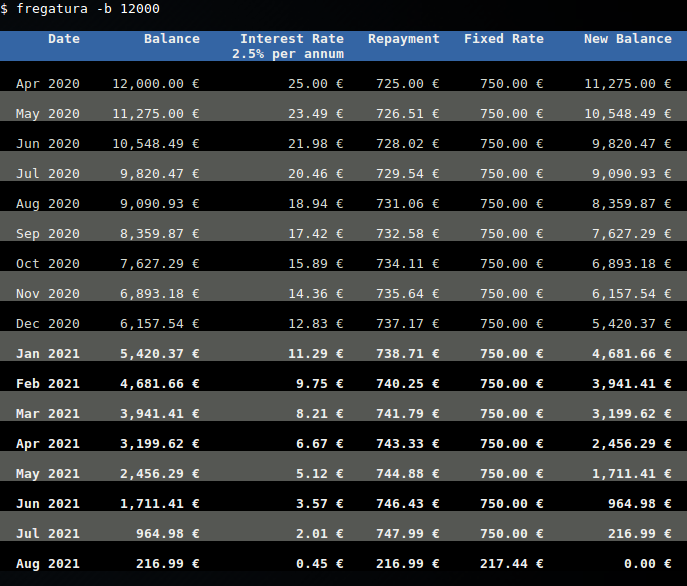
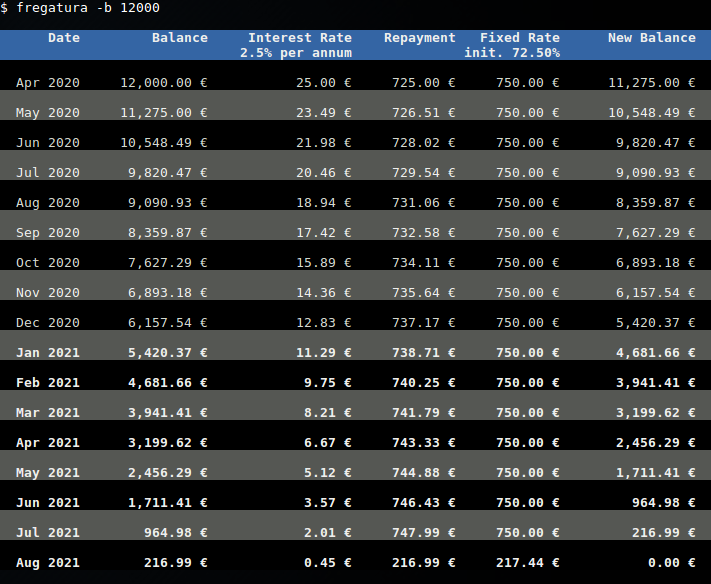
Formatting

diff --git a/src/cli.js b/src/cli.js
@@ -34,7 +34,7 @@ export function cli(argv) {
 	
 	(argv['v'] || argv['version'] || argv['h'] || argv['help']) && process.exit()
 
-	let balance       = argv['b'] || argv['balance'] || 185000;
+	let balance = argv['b'] || argv['balance'] || 185000;
 	let fixedInterest = argv['i'] || argv['interest'] || 2.5;
 	let repaymentRate = argv['p'] || argv['repaymentRate'];
 	let fixedRate;
@@ -44,7 +44,7 @@ export function cli(argv) {
 		fixedRate = argv['r'] || argv['rate'] || 750;
 		repaymentRate = (fixedRate * 12 * 100 / balance) - fixedInterest
 	}
-	let currency      = argv['c'] || argv['currency'] ||'€';
+	let currency = argv['c'] || argv['currency'] ||'€';
 	
 	let from = argv['f'] || argv['from']
 		? moment(argv['f'] || argv['from'])
@@ -61,19 +61,19 @@ export function cli(argv) {
 	console.log(chalk['bgBlue'].white.bold([
 		' ',
 		padStart('Date', 8),
-		padStart('Balance', 14),
+		padStart('Balance', 15),
 		padStart('Interest Rate', 17),
-		padStart('Repayment', 11),
+		padStart('Repayment', 12),
 		padStart('Fixed Rate', 12),
-		padStart('New Balance', 15),
+		padStart('New Balance', 16),
 		' '
 	].join(' ')));
 	console.log(chalk['bgBlue'].white.bold([
-		padStart('', 25),
+		padStart('', 26),
 		padStart(fixedInterest + '% per annum', 17),
-		padStart('', 11),
+		padStart('', 12),
 		padStart('init. ' + repaymentRate.toFixed(2) + '%', 12),
-		padStart('', 17),
+		padStart('', 18),
 	].join(' ')));
 	
 	/**
@@ -110,15 +110,15 @@ export function cli(argv) {
 				newBalance = parseFloat(balance.toFixed(2) - repayment).toFixed(2);
 			}
 	
-			console.log(fontThickness[bgColor][color](padStart('', 86)));
+			console.log(fontThickness[bgColor][color](padStart('', 89)));
 			console.log(fontThickness[bgColor][color]([
 				' ',
 				padStart(from.format('MMM YYYY'), 8),
-				padStart(numberFormat(balance.toFixed(2)) + ' ' + currency, 14),
+				padStart(numberFormat(balance.toFixed(2)) + ' ' + currency, 15),
 				padStart(numberFormat(interestSumMonth.toFixed(2)) + ' ' + currency, 17),
-				padStart(numberFormat(repayment) + ' ' + currency, 11),
+				padStart(numberFormat(repayment) + ' ' + currency, 12),
 				padStart(numberFormat(fixedRate) + ' ' + currency, 12),
-				padStart(numberFormat(newBalance) + ' ' + currency, 15),
+				padStart(numberFormat(newBalance) + ' ' + currency, 16),
 				' '
 			].join(' ')));
 			
